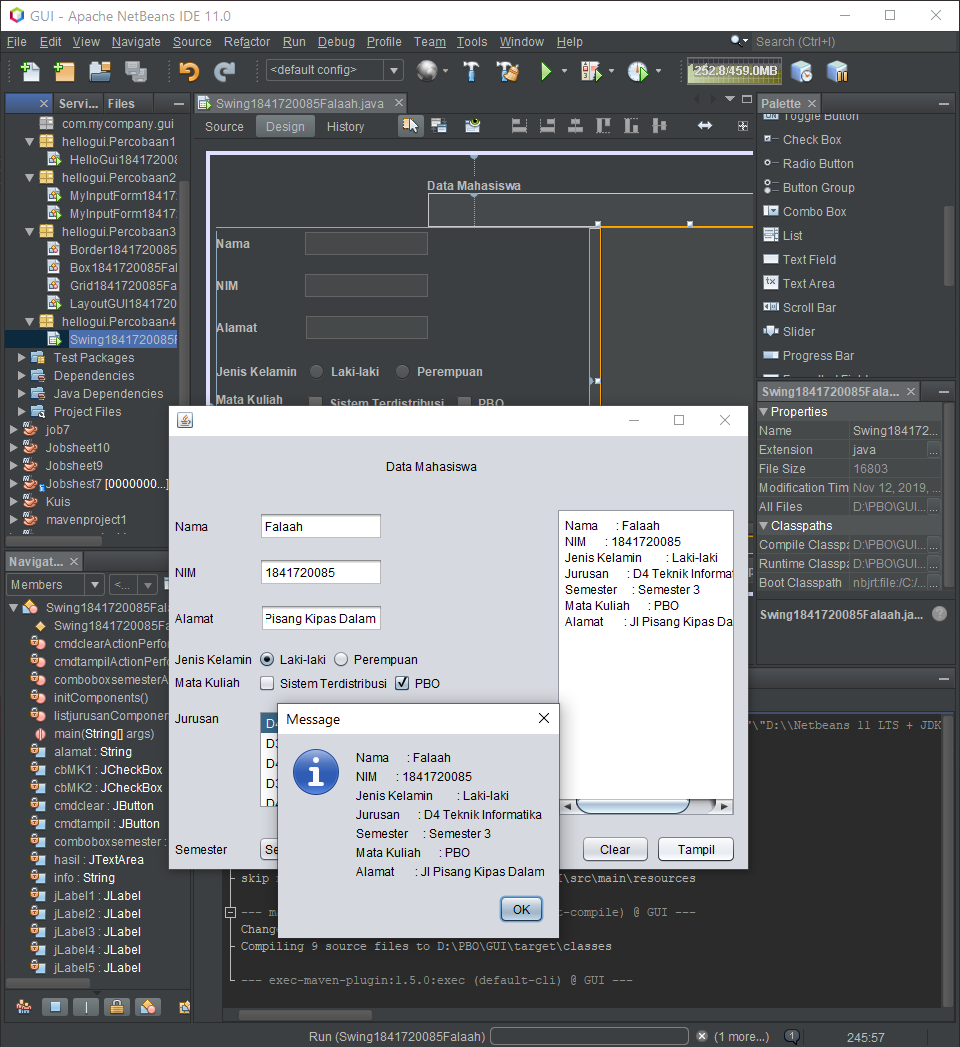
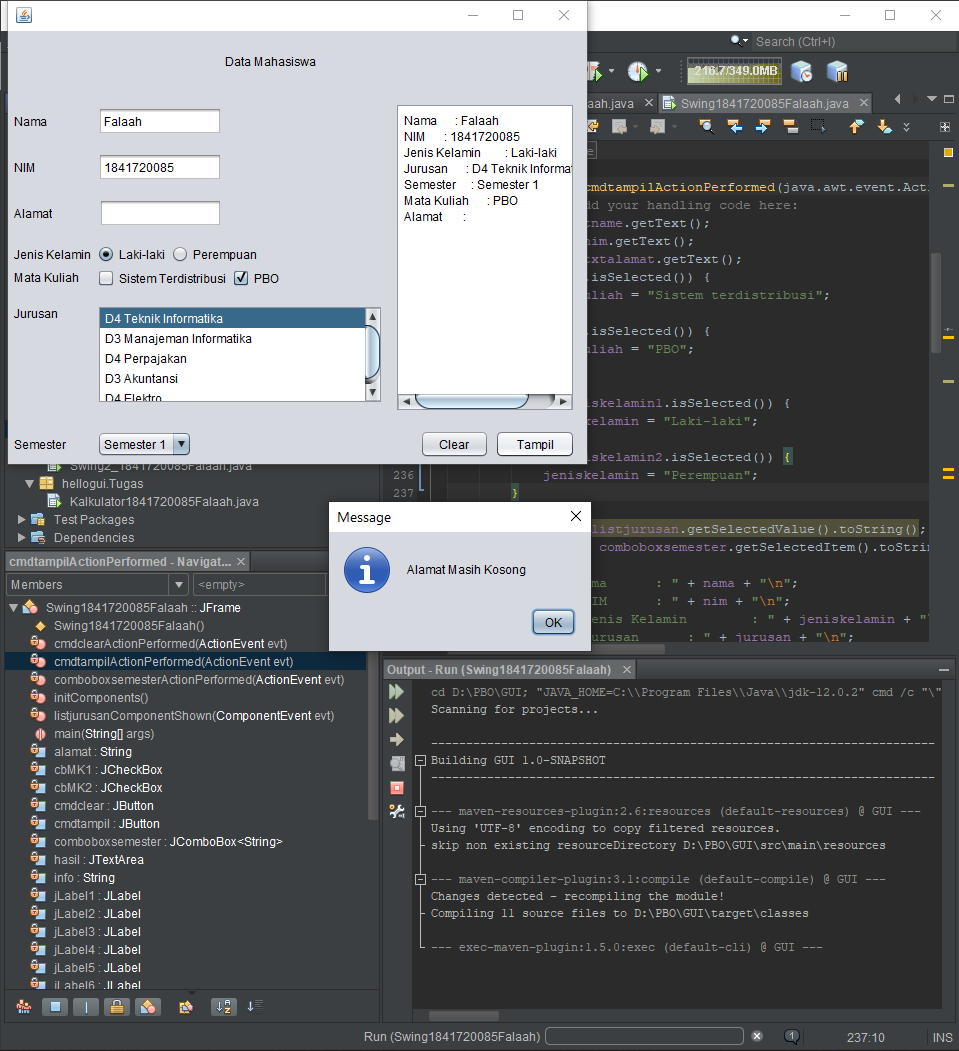
Edited

diff --git a/doc/11_GUI/LAPORAN#11.md b/doc/11_GUI/LAPORAN#11.md
@@ -147,8 +147,10 @@ menampilkan hasil penambahan dari nilai A dan B
         info += "Mata Kuliah      : " + matakuliah + "\n";
         info += "Alamat       : " + alamat + "\n";
         hasil.setText(info);
-        JOptionPane.showMessageDialog(null, info);
-    }                                     
+        if (txtalamat.getText().equals("")) {
+            JOptionPane.showMessageDialog(null, "Alamat Masih Kosong");
+        }
+    }                                          
 
     ```
 
